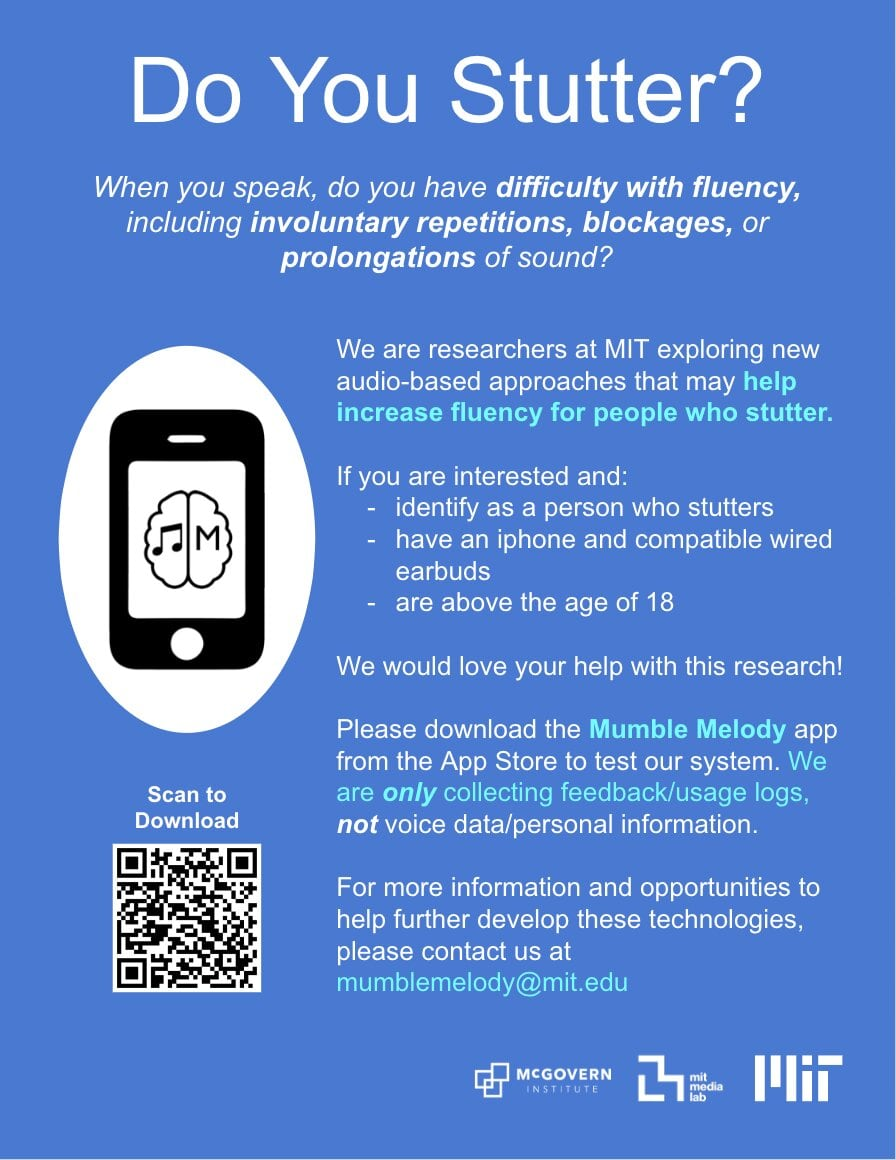
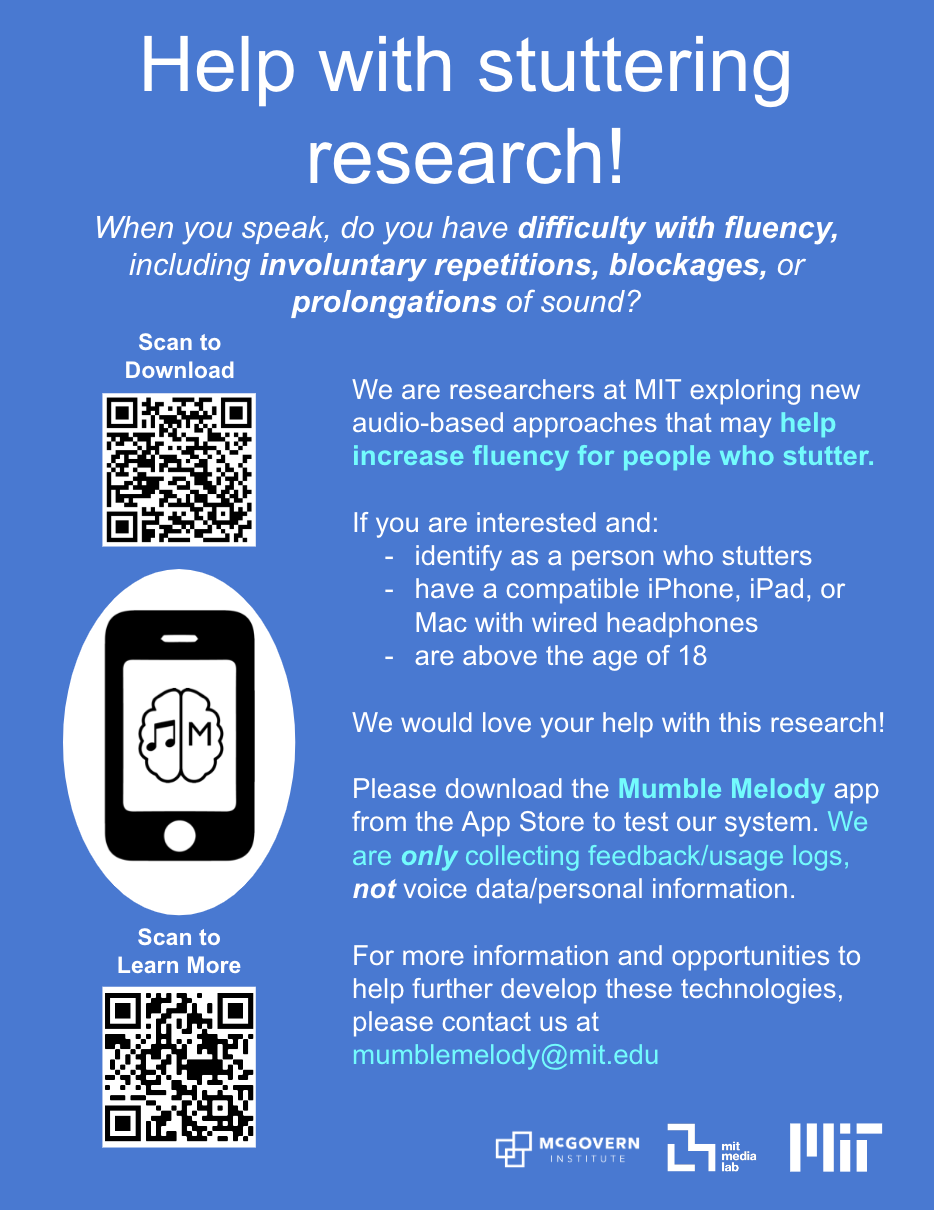
Add more device information about study

Changed region(s): [[0.0, 0.031, 1.0, 1.0]]

diff --git a/docs/_pages/mumble_melody_study.md b/docs/_pages/mumble_melody_study.md
@@ -17,7 +17,7 @@ permalink: /mumble_melody_study/
 
 **Who We Are:** 
 
-We are a group of researchers from MIT exploring new auditory feedback modalities to help increase fluency for People Who Stutter (PWS). Our iPhone app Mumble Melody provides different modes that alter your voice in real time. 
+We are a group of researchers from MIT exploring new auditory feedback modalities to help increase fluency for People Who Stutter (PWS). Our application Mumble Melody provides different modes that alter your voice in real time. 
 The Mumble Melody app is a work-in-progress based on our research that aims to gather user feedback and better understand what aspects of the experience are most important for PWS. 
 
 <img src="{{ "/images/Mumble_Melody_2.jpg" | prepend: site.baseurl | prepend: site.url}}" class="img-responsive" width="25%" style="float: right; margin: 0.8%; min-width: 90px" />
@@ -28,14 +28,14 @@ Stuttering affects 1% of adults and 8% of children, and there are 70 million PWS
 
 **About This Study:**
 
-We are currently running a feedback study to get input on our app from PWS. If you are eligible, all you need to do is download the app, try using the app in your own time, and answer built-in feedback questions. We won’t be collecting any personal data or voice data.
+We are currently running a feedback study to get input on our app from PWS. If you are eligible, all you need to do is download the app on your iPhone, iPad, or Mac computer, try using the app in your own time, and answer built-in feedback questions. We won’t be collecting any personal data or voice data.
 Below is more information on the study, eligibility criteria, and instructions to download the app:
 
 <img src="{{ "/images/Mumble_Melody_flyer.jpg" | prepend: site.baseurl | prepend: site.url}}" class="img-responsive" width="25%" style="float: center; margin: 0%; min-width: 700px" />
 
 **Study Video:**
 
-If you are interested in learning more about this study, watch [this video](https://youtu.be/_74DMatudKQ).
+If you are interested in learning more about this study, watch [this video](https://youtu.be/73SNCY7akoE).
 
 **Using the Mumble Melody App:**
 
@@ -46,6 +46,14 @@ You can use the app by yourself for speech training or during discussion. You ca
 **Disclaimer:**
 
 The approach provided in our study does not intend to cure or fix stuttering. Stuttering is a very complex condition, still not completely understood by the research community, and it comes with influential social and identity-forging elements. Our goal through distributing this app is to gather feedback from potential users to help improve the science and research on stuttering. Please be aware that the research is ongoing, and Musically Modulated Auditory Feedback might not work for all users. The Mumble Melody application will automatically deactivate in about a month. Our tool is designed for adults (18+) only.
+
+**Will It Work On My Device?**
+
+Mumble Melody is compatible with the: 
+- iPhone, iOS 12.0 or later
+- iPad, iPadOS 12.0 or later
+- Mac, macOS 11.0 or later, with Apple M1 chip or later
+- iPod touch, iOS 12.0 or later
 
 **Contact Us:**
 If you have any questions or concerns, do not hesitate to contact us at [mumblemelody@mit.edu](mailto:mumblemelody@mit.edu)
